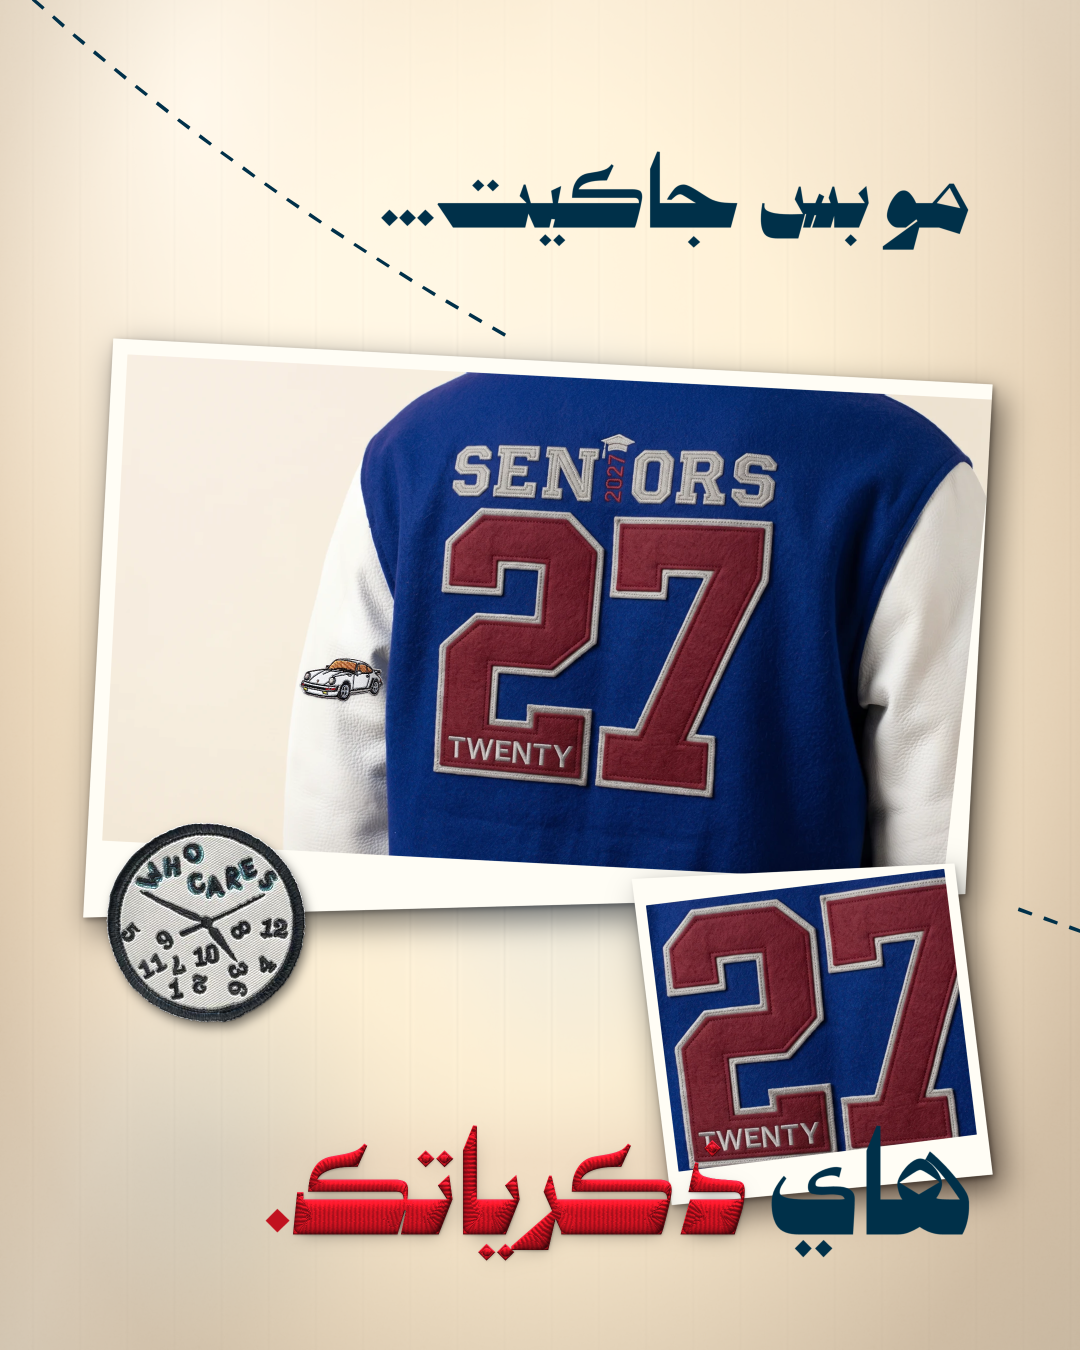
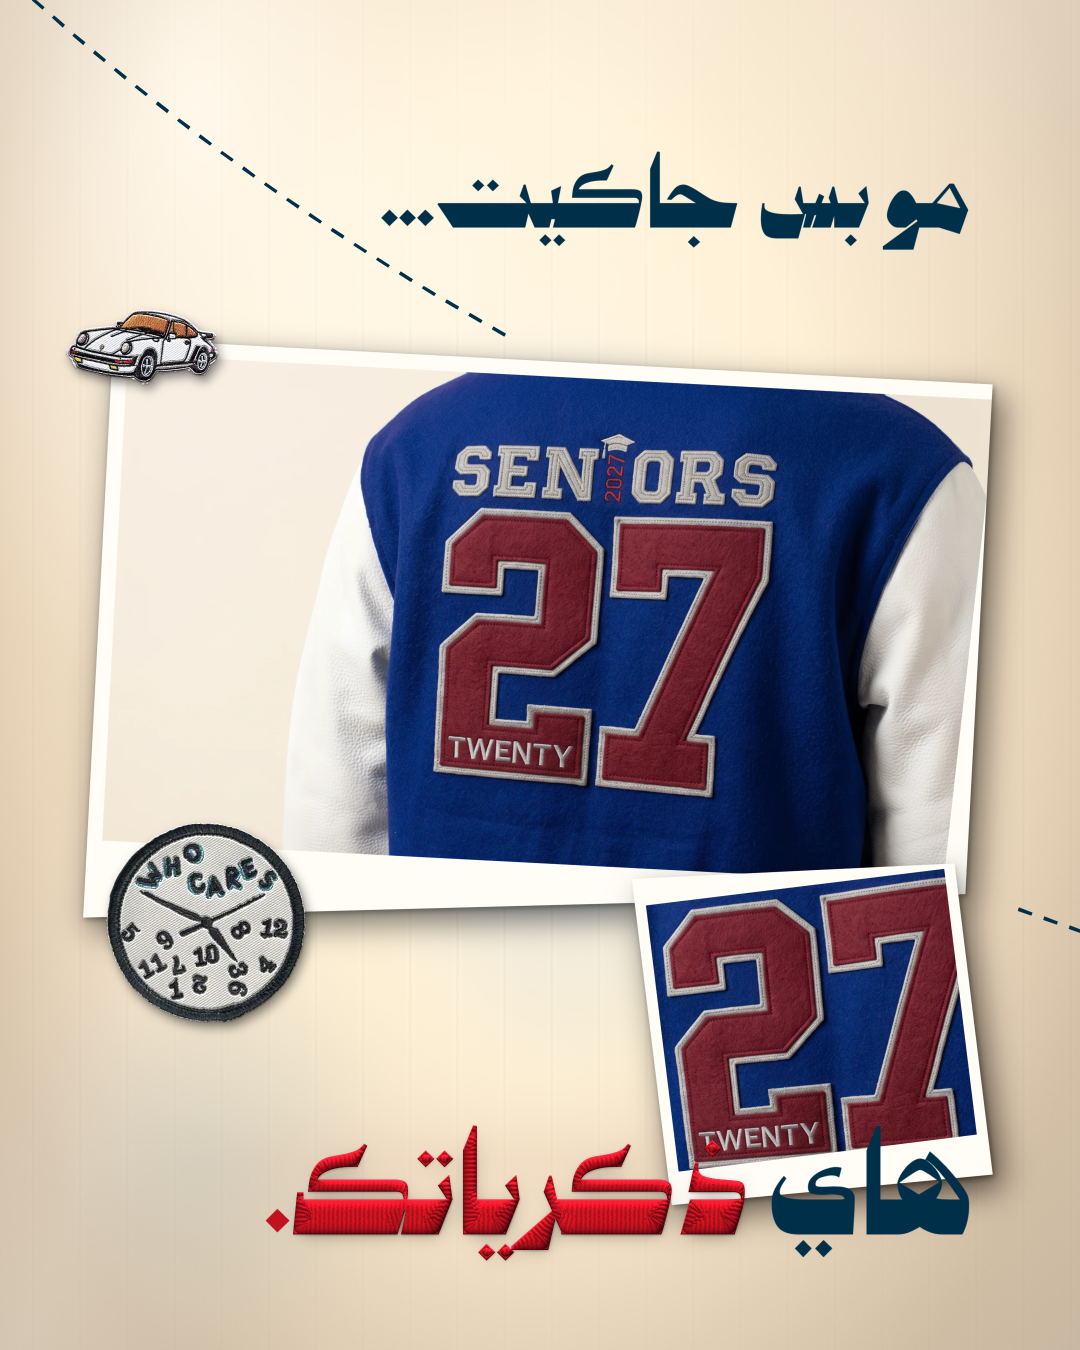
POST_04: move the car patch from the sleeve to the big print's top-left corner
The car (same baked embroidered patch, artwork and proportions) is now a
standalone patch overlapping the frame edge, with the clock's contact and
lift shadows. The sleeve shows the photo as it is. Only the two patch areas
changed (16,594 px); the clock, type, jacket and background are identical.

Claude-Session: https://claude.ai/code/session_01E3nPX1GkYAjZLxYtQfcUiY

Changed region(s): [[0.0611, 0.2178, 0.2139, 0.3111], [0.275, 0.4667, 0.3667, 0.5289]]

diff --git a/tools/rebuild/compose.py b/tools/rebuild/compose.py
@@ -338,13 +338,23 @@ def red_word(post, img):
     return over(img, t_rgb, t_a)
 
 
+# Placements that differ from the approved ones in tools/patches/composite.py.
+# POST_04: the car patch moved off the sleeve onto the big print's top-left corner,
+# a standalone patch overlapping the frame edge like the clock on its bottom-left
+# corner (the clock stays exactly as approved).
+PATCH_PLACE = {
+    "POST_04": [("whocares", (114, 607), 132, 9.0, "standalone"),
+                ("porsche", (72, 228), 100, -6.0, "standalone")],
+}
+
+
 def patches_layer(post, img):
     """the approved patch placements (tools/patches/composite.py, panel px), rendered from the
     baked embroidered patches (work/patches/baked, ~820 px) straight to the output size"""
     sys.path.insert(0, str(ROOT / "tools/patches"))
     import composite as pc
     LUMW = np.float32([0.2126, 0.7152, 0.0722])
-    for n, c, D, rot, kind in pc.PLACE[post]:
+    for n, c, D, rot, kind in PATCH_PLACE.get(post, pc.PLACE[post]):
         t, sh = pc.load(n)
         M = to_out(pc.matrix(t[..., 3], c, D, rot), post, SS)
         remap = None
